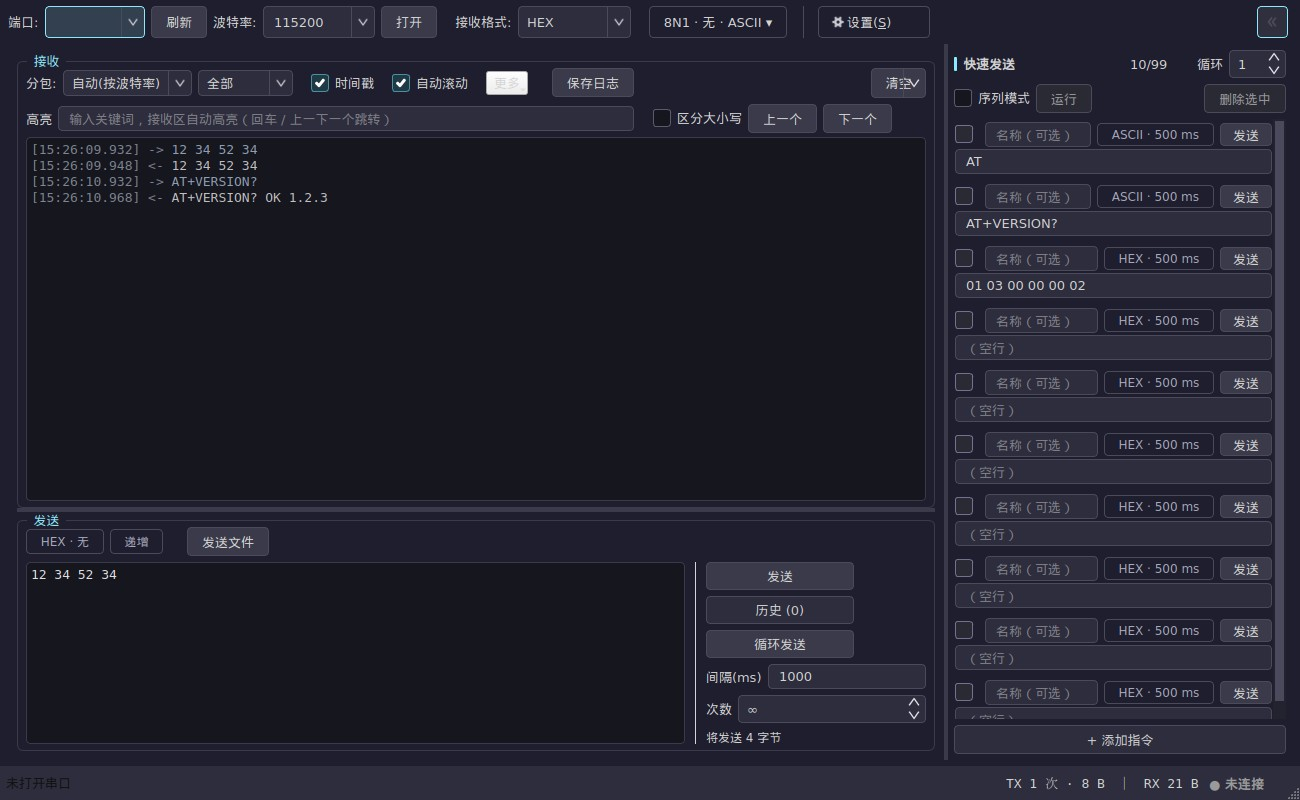
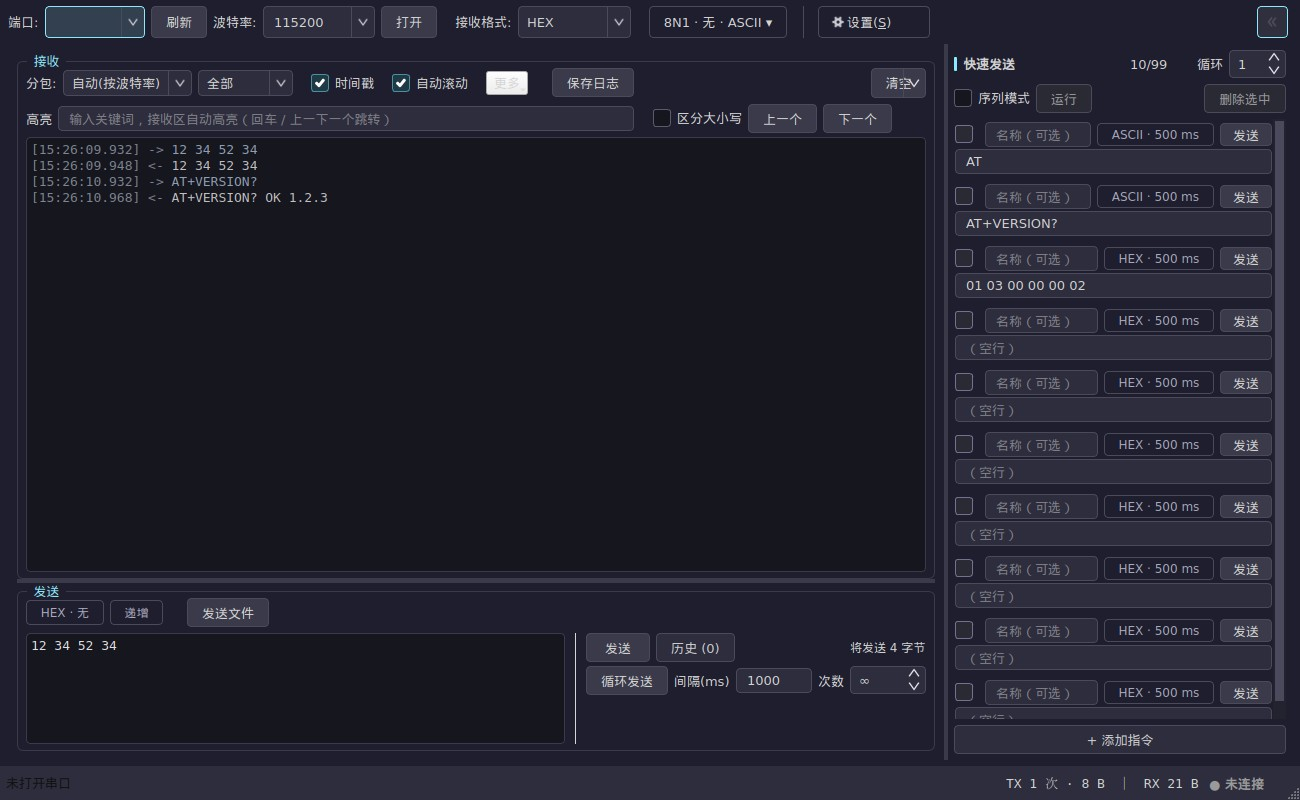
feat(ui): v1.8.5 - compact send pane (two button rows), wrap + scroll by default
Andy: the send area was too tall and the data area needed the space. The actions are
now two tight side-by-side rows beside the input (Send + History + hint / repeat +
interval + count) with smaller buttons, the input wraps with a vertical scrollbar by
default, and the pane's minimum height is 129 px (was 335 px in v1.8.2).
TX_PANE_MIN_H 190 -> 120 so the receive pane gets the rest by default.
Screenshots (zh + en) regenerated for the new layout.

Changed region(s): [[0.0, 0.625, 0.7077, 0.9375]]

diff --git a/ui/regions.py b/ui/regions.py
@@ -437,10 +437,10 @@ def _build_text_decorations(win: MainWindow) -> QWidget:
     win.escape_check.setChecked(True)
     win.escape_check.setToolTip(tr("tx.escape.tip"))
     mod_row.addWidget(win.escape_check)
-    # U165: the send box can soft-wrap too (its own switch, default off so a long
-    # HEX string still shows as a single line, which is what U130 asked for).
+    # U165/2026-10-02: the send box soft-wraps by default now (Andy: long payloads
+    # should wrap and scroll instead of running off the edge), still switchable.
     win.tx_wrap_check = QCheckBox(tr("tx.wrap"))
-    win.tx_wrap_check.setChecked(bool(load_config().get("tx_wrap_on", False)))
+    win.tx_wrap_check.setChecked(bool(load_config().get("tx_wrap_on", True)))
     win.tx_wrap_check.setToolTip(tr("tx.wrap.tip"))
     win.tx_wrap_check.toggled.connect(win._on_tx_wrap_toggled)
     mod_row.addWidget(win.tx_wrap_check)
@@ -476,9 +476,11 @@ def _build_payload_box(win: MainWindow) -> QWidget:
     col.setContentsMargins(0, 0, 0, 0)
     col.setSpacing(0)
     win.tx_edit = QPlainTextEdit()
-    # U130: data is one line, even when it is 400 characters long - wrapping it
-    # mid-token was lying about the payload. Long content scrolls horizontally.
-    win.tx_edit.setLineWrapMode(QPlainTextEdit.LineWrapMode.NoWrap)
+    # U130 -> 2026-10-02: long payloads wrap and scroll by default now (Andy).
+    win.tx_edit.setLineWrapMode(
+        QPlainTextEdit.LineWrapMode.WidgetWidth
+        if load_config().get("tx_wrap_on", True)
+        else QPlainTextEdit.LineWrapMode.NoWrap)
     win._update_input_placeholder()   # U86: keep the format-specific hint
     win.tx_edit.setToolTip(tr("tx.placeholder"))   # U114-D6: the examples live here
     win.tx_edit.textChanged.connect(win._check_hex_input)
@@ -508,72 +510,85 @@ def _build_input_and_actions(win: MainWindow) -> QWidget:
 
 
 def _build_action_column(win: MainWindow) -> QWidget:
-    """The right-hand action column: send, history, then the repeat controls."""
+    """Two compact rows of actions beside the input (2026-10-02, Andy).
+
+    The send pane used to be as tall as a three-button column plus two field rows.
+    Andy asked for about two button rows so the data area above keeps the space:
+    row 1 = Send + History (+ the payload hint), row 2 = repeat toggle + interval +
+    count, everything compact and side by side.
+    """
     actions = QWidget()
     act_col = QVBoxLayout(actions)
     act_col.setContentsMargins(0, 0, 0, 0)
-    act_col.setSpacing(6)
+    act_col.setSpacing(4)
+
+    top_row = QHBoxLayout()
+    top_row.setSpacing(6)
     win.send_btn = QPushButton(tr("btn.send"))
     win.send_btn.clicked.connect(win.on_send)
     win.send_btn.setDefault(True)
-    win.send_btn.setMinimumWidth(112)
-    win.send_btn.setMaximumWidth(148)
+    win.send_btn.setMinimumWidth(64)
+    win.send_btn.setMaximumWidth(96)
     win.send_btn.setToolTip(tr("sc.send.tip"))
-    act_col.addWidget(win.send_btn)
+    top_row.addWidget(win.send_btn)
     # U87: the history is a popup now, so it costs one compact button beside the
     # primary action instead of a whole row of its own.
     win.history_btn = QPushButton(tr("tx.history.btn", n=0))
     win.history_btn.setToolTip(tr("tx.history.btn.tip", n=0))
-    win.history_btn.setMinimumWidth(112)
-    win.history_btn.setMaximumWidth(148)
+    win.history_btn.setMinimumWidth(72)
+    win.history_btn.setMaximumWidth(104)
     win.history_btn.setProperty("secondary", True)   # U98: a reference, not a peer
     win.history_btn.setEnabled(False)
     win.history_btn.clicked.connect(win._show_history)
-    act_col.addWidget(win.history_btn)
-    # U98: "Repeat send" starts and stops a process, so it is a toggle button that
-    # reads "Stop repeat" while running - a checkbox stood in for an action before.
-    win.repeat_btn = QPushButton(tr("tx.repeat"))
-    win.repeat_btn.setCheckable(True)
-    win.repeat_btn.setToolTip(tr("tx.repeat.tip"))
-    win.repeat_btn.setMinimumWidth(112)
-    win.repeat_btn.setMaximumWidth(148)
-    win.repeat_btn.toggled.connect(win._on_repeat_toggled)
-    act_col.addWidget(win.repeat_btn)
-    interval_row = QHBoxLayout()
-    interval_row.setSpacing(6)
-    win._repeat_lbl = QLabel(tr("tx.interval.label"))   # U31: unit lives in the label
-    interval_row.addWidget(win._repeat_lbl)
-    win.repeat_ms = QLineEdit("1000")
-    win.repeat_ms.setValidator(QIntValidator(10, 60000, win))
-    # the column is capped: let the field shrink so label + field always fit inside
-    win.repeat_ms.setMinimumWidth(56)
-    win.repeat_ms.setToolTip(tr("tx.interval.tip"))
-    win.repeat_ms.textChanged.connect(win._on_repeat_interval)
-    interval_row.addWidget(win.repeat_ms, 1)
-    act_col.addLayout(interval_row)
-    # U171: how many repeats to send; 0 (shown as the infinity sign) keeps going
-    # until stopped - the same "0 = endless" rule as the quick-send sequence.
-    count_row = QHBoxLayout()
-    count_row.setSpacing(6)
-    win._repeat_cnt_lbl = QLabel(tr("tx.repeat.count"))
-    count_row.addWidget(win._repeat_cnt_lbl)
-    win.repeat_times = QSpinBox()
-    win.repeat_times.setRange(0, 9999)
-    win.repeat_times.setValue(0)
-    win.repeat_times.setSpecialValueText("\u221e")
-    win.repeat_times.setMinimumWidth(56)
-    win.repeat_times.setToolTip(tr("tx.repeat.count.tip"))
-    count_row.addWidget(win.repeat_times, 1)
-    act_col.addLayout(count_row)
+    top_row.addWidget(win.history_btn)
+    top_row.addStretch(1)
     # U121: the payload hint sits with the actions it describes
     win.tx_size_lbl = QLabel("")
     win.tx_size_lbl.setToolTip(tr("tx.payload.tip"))
     # the app stylesheet drives the widget font, so the smaller size is asked for
     # by object name (QLabel#payloadHint) instead of a QFont that QSS would override
     win.tx_size_lbl.setObjectName("payloadHint")
-    act_col.addWidget(win.tx_size_lbl)
+    top_row.addWidget(win.tx_size_lbl)
+    act_col.addLayout(top_row)
+
+    bottom_row = QHBoxLayout()
+    bottom_row.setSpacing(6)
+    # U98: "Repeat send" starts and stops a process, so it is a toggle button that
+    # reads "Stop repeat" while running - a checkbox stood in for an action before.
+    win.repeat_btn = QPushButton(tr("tx.repeat"))
+    win.repeat_btn.setCheckable(True)
+    win.repeat_btn.setToolTip(tr("tx.repeat.tip"))
+    win.repeat_btn.setMinimumWidth(64)
+    win.repeat_btn.setMaximumWidth(96)
+    win.repeat_btn.toggled.connect(win._on_repeat_toggled)
+    bottom_row.addWidget(win.repeat_btn)
+    win._repeat_lbl = QLabel(tr("tx.interval.label"))   # U31: unit lives in the label
+    bottom_row.addWidget(win._repeat_lbl)
+    win.repeat_ms = QLineEdit("1000")
+    win.repeat_ms.setValidator(QIntValidator(10, 60000, win))
+    win.repeat_ms.setMinimumWidth(56)
+    win.repeat_ms.setMaximumWidth(76)
+    win.repeat_ms.setToolTip(tr("tx.interval.tip"))
+    win.repeat_ms.textChanged.connect(win._on_repeat_interval)
+    bottom_row.addWidget(win.repeat_ms)
+    # U171: how many repeats to send; 0 (shown as the infinity sign) keeps going
+    # until stopped - the same "0 = endless" rule as the quick-send sequence.
+    win._repeat_cnt_lbl = QLabel(tr("tx.repeat.count"))
+    bottom_row.addWidget(win._repeat_cnt_lbl)
+    win.repeat_times = QSpinBox()
+    win.repeat_times.setRange(0, 9999)
+    win.repeat_times.setValue(0)
+    win.repeat_times.setSpecialValueText("\u221e")
+    win.repeat_times.setMinimumWidth(56)
+    win.repeat_times.setMaximumWidth(76)
+    win.repeat_times.setToolTip(tr("tx.repeat.count.tip"))
+    bottom_row.addWidget(win.repeat_times)
+    bottom_row.addStretch(1)
+    act_col.addLayout(bottom_row)
     act_col.addStretch(1)
     return actions
+
+
 def build_data_panes(win: MainWindow, root: QWidget) -> None:
     """Data panes: receive group, splitter wiring, send group and the quick-send panel."""
     # --- main splitter: left (rx/tx) + right (quick send) ---------------

diff --git a/ui/layout_controller.py b/ui/layout_controller.py
@@ -106,7 +106,7 @@ LEGACY_SPLIT_DEFAULTS = {
     "split_sizes": ([820, 340], DATA_FIRST_H),
 }
 QUICK_PANEL_MIN_W = 332   # the quick-send rows need this (U69)
-TX_PANE_MIN_H = 190       # the send pane keeps its rows usable (U63)
+TX_PANE_MIN_H = 120       # 2026-10-02: the send pane is ~2 button rows; data gets the rest
 def fit_minimum_width(win: MainWindow) -> None:
     "fit minimum width"
     try:
@@ -231,8 +231,10 @@ def fit_tx_edit_height(win: MainWindow) -> None:
             and cap_lbl.isVisible() else 0
         avail = win._tx_group.height() - above - caption - 8
         cap = 26 * line + chrome
-        # at least three lines - one line was what made the box feel cramped
-        win.tx_edit.setFixedHeight(int(max(3 * line + chrome, min(avail, cap))))
+        # 2026-10-02 (Andy): the pane is meant to be compact (about two button rows)
+        # so the data area above gets the space; two lines is the floor, the pane can
+        # still grow if the user drags the divider.
+        win.tx_edit.setFixedHeight(int(max(2 * line + chrome, min(avail, cap))))
     finally:
         win._fitting_tx = False
 

diff --git a/tests/test_ui_smoke.py b/tests/test_ui_smoke.py
@@ -53,11 +53,13 @@ def test_status_counter_reads_from_the_stats_object(app, win):
     assert "5" in text and "TX" in text and "RX" in text
 
 
-def test_send_input_is_at_least_three_lines_and_does_not_wrap(app, win):
+def test_send_input_is_compact_and_wraps(app, win):
+    """2026-10-02 (Andy): the pane is about two button rows high and long payloads
+    wrap + scroll, so the floor is two lines and wrapping is the default."""
     from PySide6.QtWidgets import QPlainTextEdit
     line = win.tx_edit.fontMetrics().lineSpacing()
-    assert win.tx_edit.height() >= 3 * line
-    assert win.tx_edit.lineWrapMode() == QPlainTextEdit.LineWrapMode.NoWrap
+    assert win.tx_edit.height() >= 2 * line
+    assert win.tx_edit.lineWrapMode() == QPlainTextEdit.LineWrapMode.WidgetWidth
 
 
 def test_actions_sit_beside_the_input(app, win):

diff --git a/app/__init__.py b/app/__init__.py
@@ -1,3 +1,3 @@
 """SerialDesk application package."""
 
-__version__ = "1.8.4"
+__version__ = "1.8.5"

diff --git a/README.md b/README.md
@@ -354,7 +354,8 @@ Why the warnings: the exe is unsigned (certificates are a yearly paid service), 
 | **v1.8.1** | Fixes and polish: live highlighting for newly received rows, a "sent N times" sequence counter plus a highlight on the row being sent, the duplicate fold control removed, and larger spin-box / clear-dropdown arrows | ✅ Done |
 | **v1.8.2** | Send area labelled by its sections (send content / repeat send / send·history), ticking a row now arms "Delete selected", and the fold toggle moved to the far right of the connection row | ✅ Done |
 | **v1.8.3** | Send area re-planned: payload box on the left, Send / History / repeat controls in a column on the right (the primary button under the hand); pane minimum height 335→235 px | ✅ Done |
-| **v1.8.4** | Send area is two bands again: settings row on top, then one row split left / right (input box | compact Send / History / repeat column, flush with the box) | ✅ This release |
+| **v1.8.4** | Send area is two bands again: settings row on top, then one row split left / right (input box | compact Send / History / repeat column, flush with the box) | ✅ Done |
+| **v1.8.5** | Send pane squeezed to about two button rows with smaller side-by-side buttons, the input wraps + scrolls by default, and the data area gets more height by default | ✅ This release |
 | v1.1+ | Waveform view (pyqtgraph), TCP / UDP, protocol analyser panel | Planned (prioritised by user feedback) |
 
 ### Quick start

diff --git a/CHANGELOG.md b/CHANGELOG.md
@@ -1,5 +1,23 @@
 # Changelog
 
+## [v1.8.5] - 2026-10-02
+
+### Changed
+
+- **The send pane is compact now** (Andy): about two button rows instead of a tall
+  column, so the data area above keeps the space. The actions sit in two tight rows
+  beside the input - Send + History (with the payload hint) on the first, the repeat
+  toggle + interval + count on the second - with smaller, side-by-side buttons.
+- **The send box wraps and scrolls by default** (Andy): long payloads soft-wrap with a
+  vertical scrollbar instead of running off the edge. The "Wrap input" switch is still
+  there (now on by default) for anyone who wants the old single-line behaviour.
+
+### Internal quality (no user-visible change)
+
+- The send pane's minimum height is 129 px (was 335 px in v1.8.2) and the default
+  divider split gives the rest to the receive pane (TX_PANE_MIN_H 190 -> 120).
+
+
 ## [v1.8.4] - 2026-10-02
 
 ### Changed
